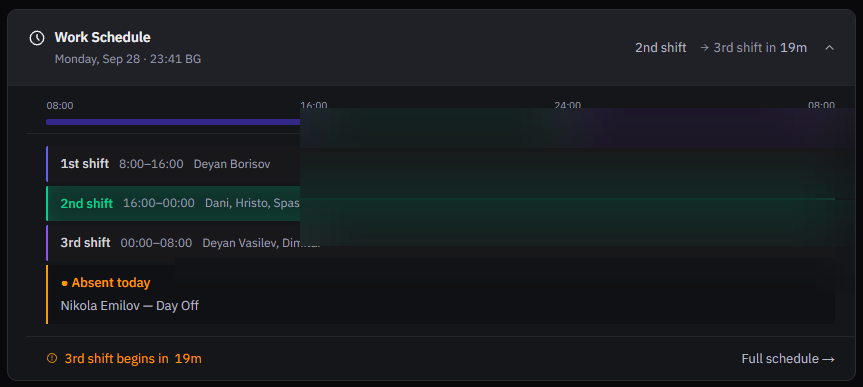
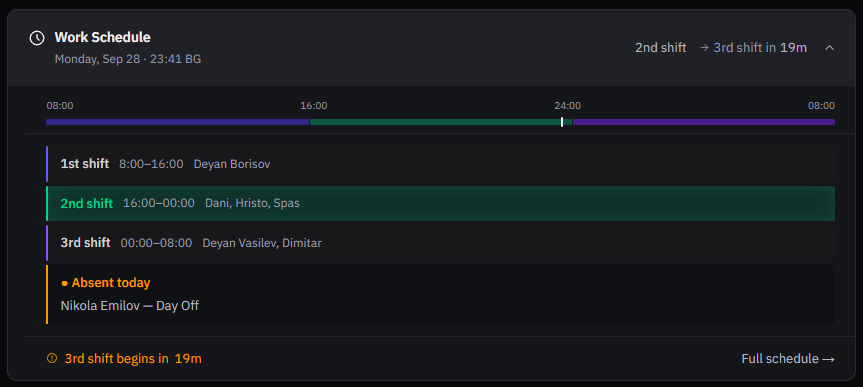
Add Fleet Map and Completed Shipments showcase; restore work schedule image

diff --git a/content/snap-sections.ts b/content/snap-sections.ts
@@ -140,6 +140,55 @@ export const snapSections: SnapSection[] = [
           description:
             "AI-assisted shift briefing panel summarizing fleet disposition (on load, on duty, off duty) with freshness status and regeneration when data is stale. Expandable sections cover weather and road conditions, fuel, Sylectus compliance dates, completed loads, trailer yard status, and external market intelligence—giving each shift a structured operational snapshot before work begins.",
         },
+        {
+          id: "fleet-map",
+          src: "/projects/fleet-hub-fleet-map.png",
+          alt: "Fleet Map operations view",
+          description:
+            "Fleet Map workspace over a live Mapbox basemap with real-time asset pins. Unit cards expose trip data (PRO/TO, references, origin and destination, appointments) and one-click actions for CDL/ID, phone, residence, turn-by-turn to the next stop, broker email drafts, and hours-of-service. Includes Active Fleet and Unassigned Loads tabs, Sylectus sync, working filters and search, a draggable/closable unit list, a custom planning sheet for dispatch sort order, and an MX tab for Mexican freight moved on partner carriers.",
+        },
+        {
+          id: "map-layer-filters",
+          src: "/projects/fleet-hub-map-layers.png",
+          alt: "Fleet Map layer and status filters",
+          description:
+            "Map layer panel for toggling truck and trailer visibility by operational status—on load, on duty, available, planned, busy, off duty—and trailer states such as paired, not paired, reloaded, empty, and pending. Supports light map styling with live counts so dispatch can filter the map to the assets that matter for the current decision.",
+        },
+        {
+          id: "map-overlays",
+          src: "/projects/fleet-hub-map-overlays.png",
+          alt: "Map style and overlay controls",
+          description:
+            "Map presentation controls: Light, Dark, and Satellite basemaps plus operational overlays. Optional route-and-weather context when opening a truck detail, and traffic layers including flow, incidents, truck stops, border crossings, and customer locations—configurable per dispatcher preference.",
+        },
+        {
+          id: "map-search",
+          src: "/projects/fleet-hub-map-search.png",
+          alt: "Map location search",
+          description:
+            "Geographic search with autocomplete over the Mapbox map. Dispatch can jump to a city, address, or point of interest, then evaluate coverage from that location instead of panning manually across regions.",
+        },
+        {
+          id: "nearest-units",
+          src: "/projects/fleet-hub-nearest-units.png",
+          alt: "Nearest units by status",
+          description:
+            "After choosing a location, the hub lists the closest units filtered by selected status (for example available trucks), with distance from the search point—supporting rapid assignment and coverage checks without leaving the map.",
+        },
+        {
+          id: "unassigned-loads",
+          src: "/projects/fleet-hub-unassigned-loads.png",
+          alt: "Unassigned loads panel",
+          description:
+            "Unassigned Loads queue with origin/destination, appointment windows, mileage, service type, and availability versus planned status. Gives dispatch a dedicated lane to match open freight to fleet capacity from the same Fleet Map screen.",
+        },
+        {
+          id: "completed-shipments",
+          src: "/projects/fleet-hub-completed-shipments.png",
+          alt: "Completed shipments closeout history",
+          description:
+            "Completed Shipments module for closeout history and follow-ups: searchable records by unit, PRO, driver, trailer, and customer; date-range filters; KPI counts (total, weekly, monthly); and trip metrics including deadhead versus loaded miles, transit time, duration, and accessorized status for post-delivery review.",
+        },
       ],
     },
   },

diff --git a/components/fleet-showcase-gallery.tsx b/components/fleet-showcase-gallery.tsx
@@ -28,15 +28,15 @@ export function FleetShowcaseGallery({ showcase }: FleetShowcaseGalleryProps) {
         {showcase.summary}
       </p>
 
-      <div className="mx-auto mt-6 flex w-full max-w-4xl flex-wrap items-start justify-start gap-3">
-        {showcase.screenshots.map((shot) => (
-          <button
-            key={shot.id}
-            type="button"
-            onClick={() => openShot(shot)}
-            aria-label={`Enlarge ${shot.alt}`}
-            className="group w-36 shrink-0 overflow-hidden rounded-md border border-foreground/15 bg-foreground/[0.02] transition hover:border-foreground/30 focus-visible:outline-none focus-visible:ring-2 focus-visible:ring-foreground/30 sm:w-44"
-          >
+      <div className="mx-auto mt-6 flex w-full max-w-4xl items-start justify-start gap-2.5 overflow-x-auto pb-2 sm:gap-3">
+          {showcase.screenshots.map((shot) => (
+            <button
+              key={shot.id}
+              type="button"
+              onClick={() => openShot(shot)}
+              aria-label={`Enlarge ${shot.alt}`}
+              className="group w-32 shrink-0 overflow-hidden rounded-md border border-foreground/15 bg-foreground/[0.02] transition hover:border-foreground/30 focus-visible:outline-none focus-visible:ring-2 focus-visible:ring-foreground/30 sm:w-36"
+            >
             <div className="relative aspect-video w-full">
               <Image
                 src={shot.src}

diff --git a/components/scroll-snap-portfolio.tsx b/components/scroll-snap-portfolio.tsx
@@ -175,7 +175,7 @@ export function ScrollSnapPortfolio() {
               section.experiences
                 ? "justify-start overflow-hidden pb-4 pt-[6vh] sm:pt-[7vh]"
                 : section.projectShowcase
-                  ? "justify-start overflow-hidden pb-6 pt-[8vh] sm:pt-[9vh]"
+                  ? "justify-start overflow-hidden pb-6 pt-[6vh] sm:pt-[7vh]"
                   : "justify-center py-20",
             )}
           >
